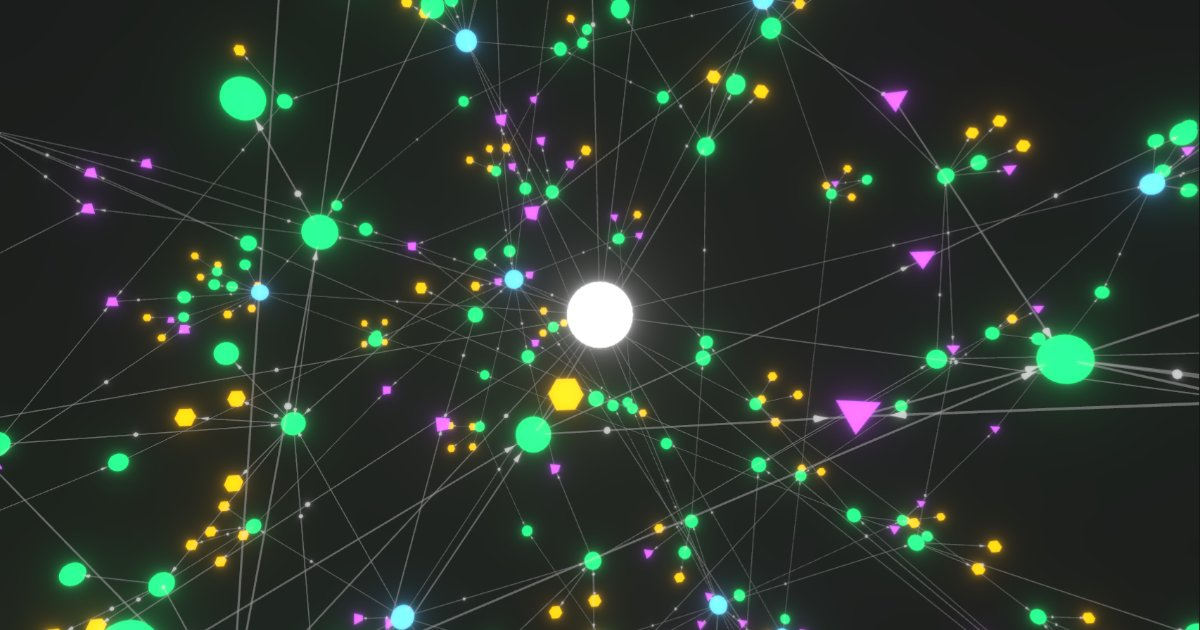
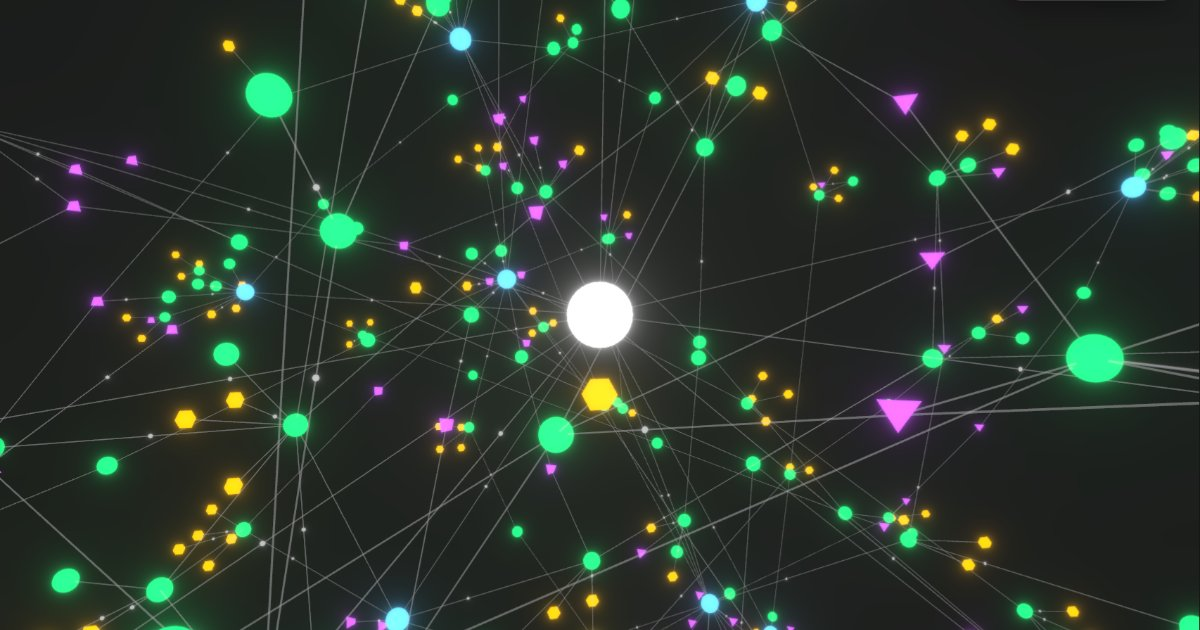
perf(torus): 4x composer MSAA, no canvas MSAA, no arrow cones
- EffectComposer multisampling 8 -> 4 (library default 8x on half-float
  targets ~= 90-180 MB of GPU memory at card size); edges look the same
- the canvas's own MSAA buffer was wasted: the composer's output is a
  full-screen quad. Scenes can now opt out via the registry's
  `antialias` (merged into SceneCanvas's gl defaults)
- drop the 687 arrow cones (one mesh each, repositioned every frame);
  the small arrowheads at link ends are gone (approved)

Torus poster re-captured.

Claude-Session: https://claude.ai/code/session_01Vfbzc6RXiZzHMN87fvMCKc

diff --git a/src/components/canvas/scenes/torus-scene.tsx b/src/components/canvas/scenes/torus-scene.tsx
@@ -12,7 +12,7 @@ import {
 	type NodeType,
 } from "@/lib/graph-data";
 
-/** All links, arrows, and particles share one whitish tint. */
+/** Links and particles share one whitish tint. */
 const LINK_TINT = "#e6ebf2";
 
 /** Per-type geometry — like the reference, some node roles get faceted shapes. */
@@ -146,16 +146,15 @@ export default function TorusScene() {
 					linkColor={LINK_TINT}
 					linkOpacity={0.3}
 					linkWidth={0.5}
-					linkDirectionalArrowLength={3.5}
-					linkDirectionalArrowRelPos={1}
-					linkDirectionalArrowColor={LINK_TINT}
 					linkDirectionalParticles={particlesOf}
 					linkDirectionalParticleWidth={2.2}
 					linkDirectionalParticleSpeed={particleSpeedOf}
 					linkDirectionalParticleColor={LINK_TINT}
 				/>
 			</group>
-			<EffectComposer>
+			{/* 4× MSAA (the library default is 8× on half-float targets, ~2× the
+			    GPU memory for no visible gain at this size). */}
+			<EffectComposer multisampling={4}>
 				<Bloom
 					mipmapBlur
 					luminanceThreshold={0.2}

diff --git a/src/components/canvas/scenes/registry.ts b/src/components/canvas/scenes/registry.ts
@@ -16,6 +16,11 @@ export interface SceneEntry {
 	background: string;
 	/** Per-scene <Canvas> options (shadow map type, default camera). */
 	canvas?: Pick<CanvasProps, "shadows" | "camera">;
+	/**
+	 * Default-framebuffer MSAA (default true). Off for scenes whose
+	 * post-processing composer already antialiases its own render targets.
+	 */
+	antialias?: boolean;
 }
 
 const lazyScene = (load: SceneEntry["load"]) => ({ load, Scene: lazy(load) });
@@ -28,6 +33,8 @@ export const scenes: Record<string, SceneEntry> = {
 	torus: {
 		...lazyScene(() => import("./torus-scene")),
 		background: "#1a1a1a",
+		// The EffectComposer multisamples; the final pass is a full-screen quad.
+		antialias: false,
 	},
 	governance: {
 		...lazyScene(() => import("./statue-scene")),

diff --git a/src/components/canvas/scene-canvas.tsx b/src/components/canvas/scene-canvas.tsx
@@ -23,14 +23,14 @@ export default function SceneCanvas({
 }) {
 	const entry = scenes[slug];
 	if (!entry) return null;
-	const { Scene, background, canvas } = entry;
+	const { Scene, background, canvas, antialias = true } = entry;
 
 	return (
 		<Canvas
 			frameloop={paused ? "never" : "always"}
 			dpr={[1, 1.5]}
 			gl={{
-				antialias: true,
+				antialias,
 				alpha: false,
 				powerPreference: "high-performance",
 			}}
